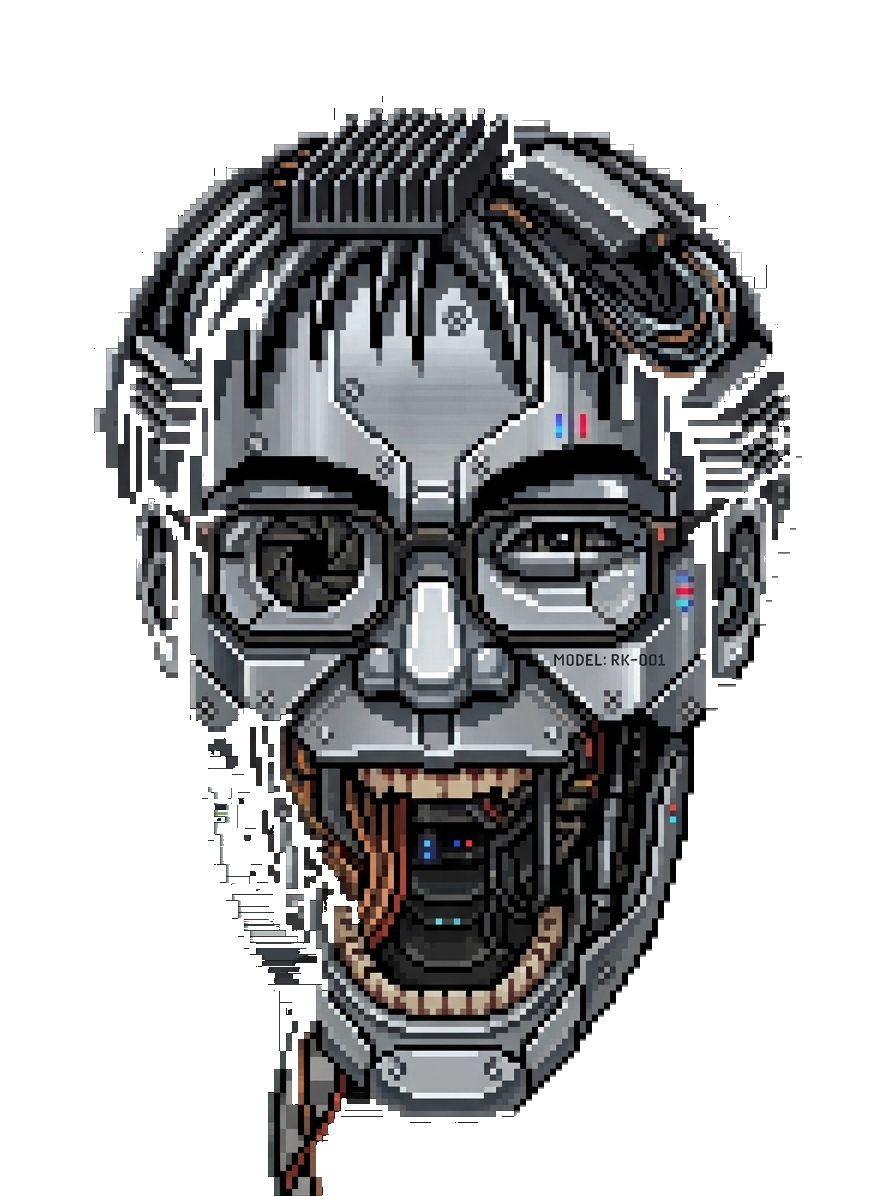
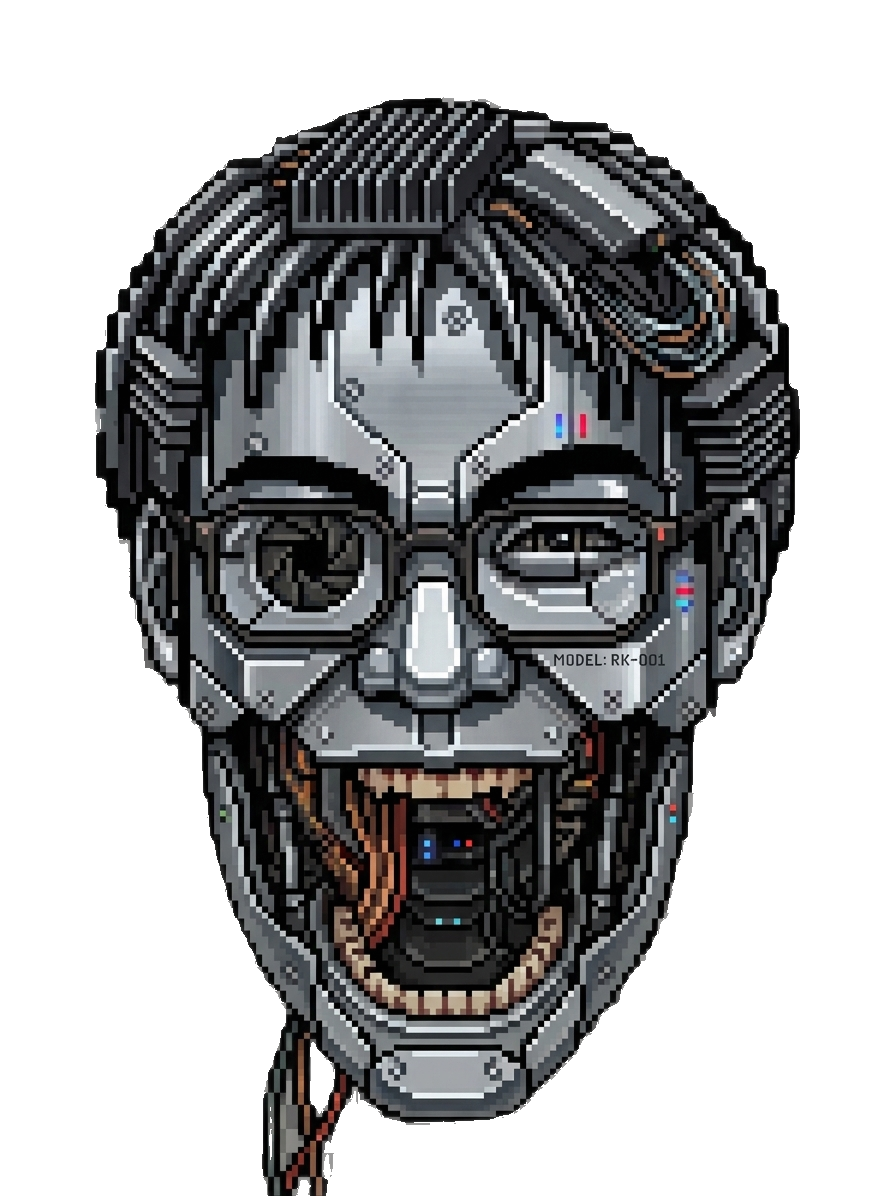
fix: リザルトボタン無反応・IMG_3787透過再修正
- renderLb: best.time=nullのとき.toFixed()でクラッシュ→ボタン全滅のバグ修正
- IMG_3787: 元画像ベースで明灰色BFS除去(v3)で右側背景を透過

https://claude.ai/code/session_018VHUaEQUF4zj6uA4b24amE

diff --git a/index.html b/index.html
@@ -2432,7 +2432,7 @@ function runCountdown(cb) {
       `<div class="lb-row">
          <span class="lb-medal">🥇</span>
          <span class="lb-name">${best.won ? '全滅クリア' : `${best.score}体撃破`}</span>
-         <span class="lb-score">${best.won ? best.time.toFixed(1)+'秒' : best.score+'/99'}</span>
+         <span class="lb-score">${best.won ? (best.time != null ? best.time.toFixed(1)+'秒' : `${best.score}体`) : best.score+'/99'}</span>
        </div>`;
   }
 
